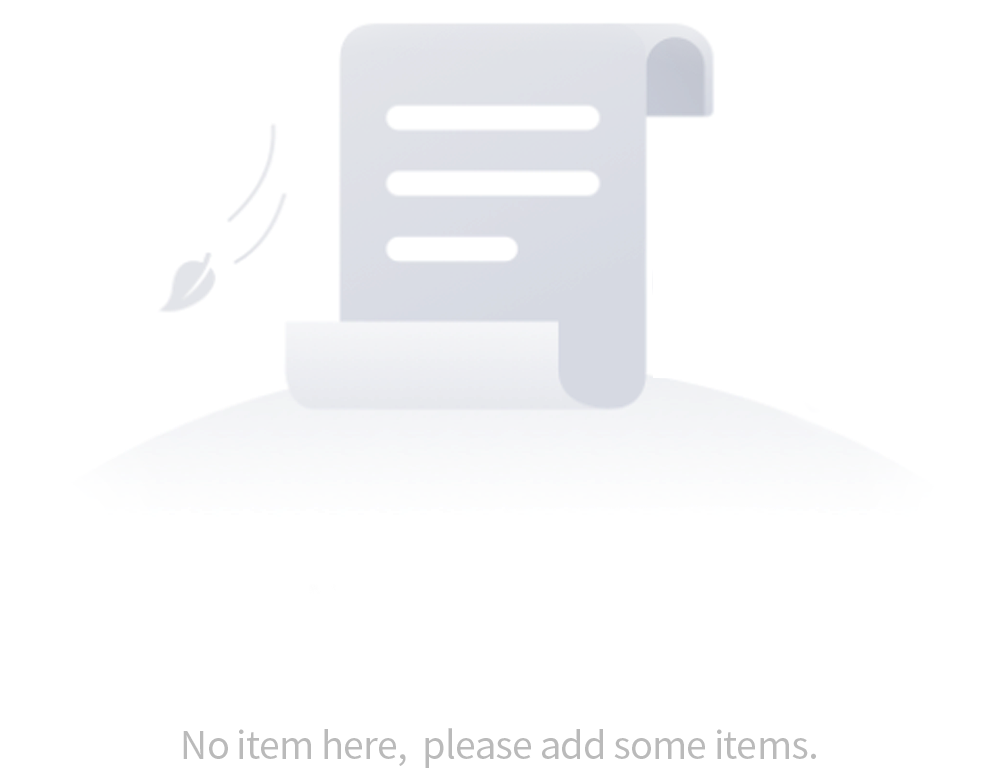
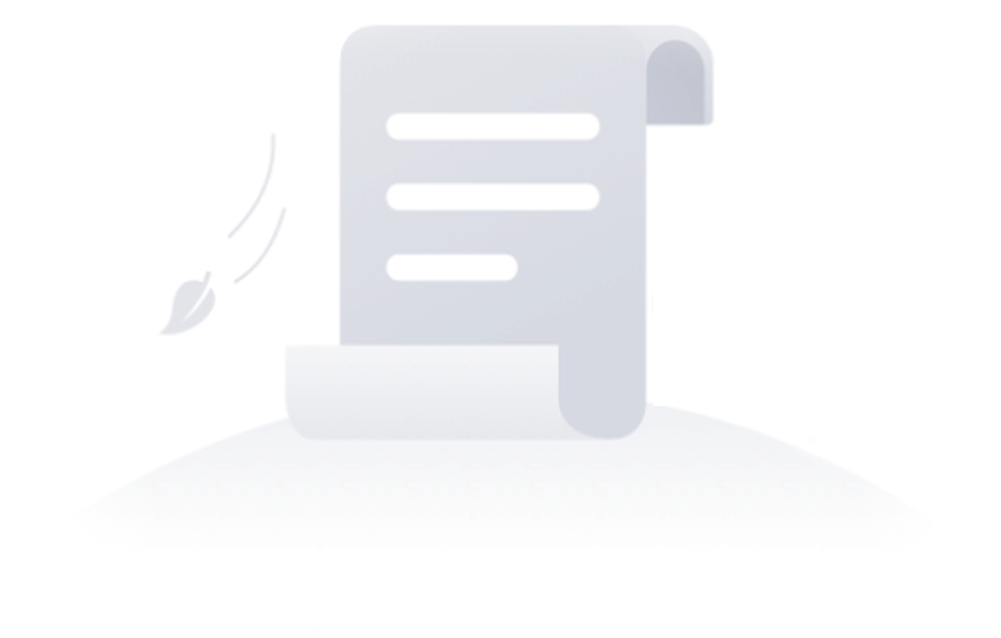
adjust list empty page

diff --git a/src/frontend/react/src/components/list/List.tsx b/src/frontend/react/src/components/list/List.tsx
@@ -163,6 +163,7 @@ const List: React.FC<ListProps> = ({ onClose }) => {
               >
                 Clear All
               </Button>
+              
             )}
           </Box>
         </Box>
@@ -189,14 +190,17 @@ const List: React.FC<ListProps> = ({ onClose }) => {
             },
           }}
         >
-          {listItems.length === 0 ? (
-    <Box
+          {listItems.length === 0 ? 
+          (
+            <>
+  <Box
     sx={{
       display: 'flex',
+      flexDirection: 'column',
       justifyContent: 'center',
       alignItems: 'center',
       height: '100%',
-      marginTop: '-90px', 
+      marginTop: '-90px',
     }}
   >
     <img 
@@ -204,9 +208,22 @@ const List: React.FC<ListProps> = ({ onClose }) => {
       alt="Empty list" 
       style={{ width: '100%' }} 
     />
+    <Typography 
+      variant="body2" 
+      sx={{
+        color: '#999', 
+        fontSize: '0.95em', 
+        marginTop: '8px', 
+        textAlign: 'center'
+      }}
+    >
+      No item here, please add some items.
+    </Typography>
   </Box>
+</>
+) 
   
-          ) : (
+  : (
             listItems.map((item) => (
               <ListCard
                 key={item.id}
